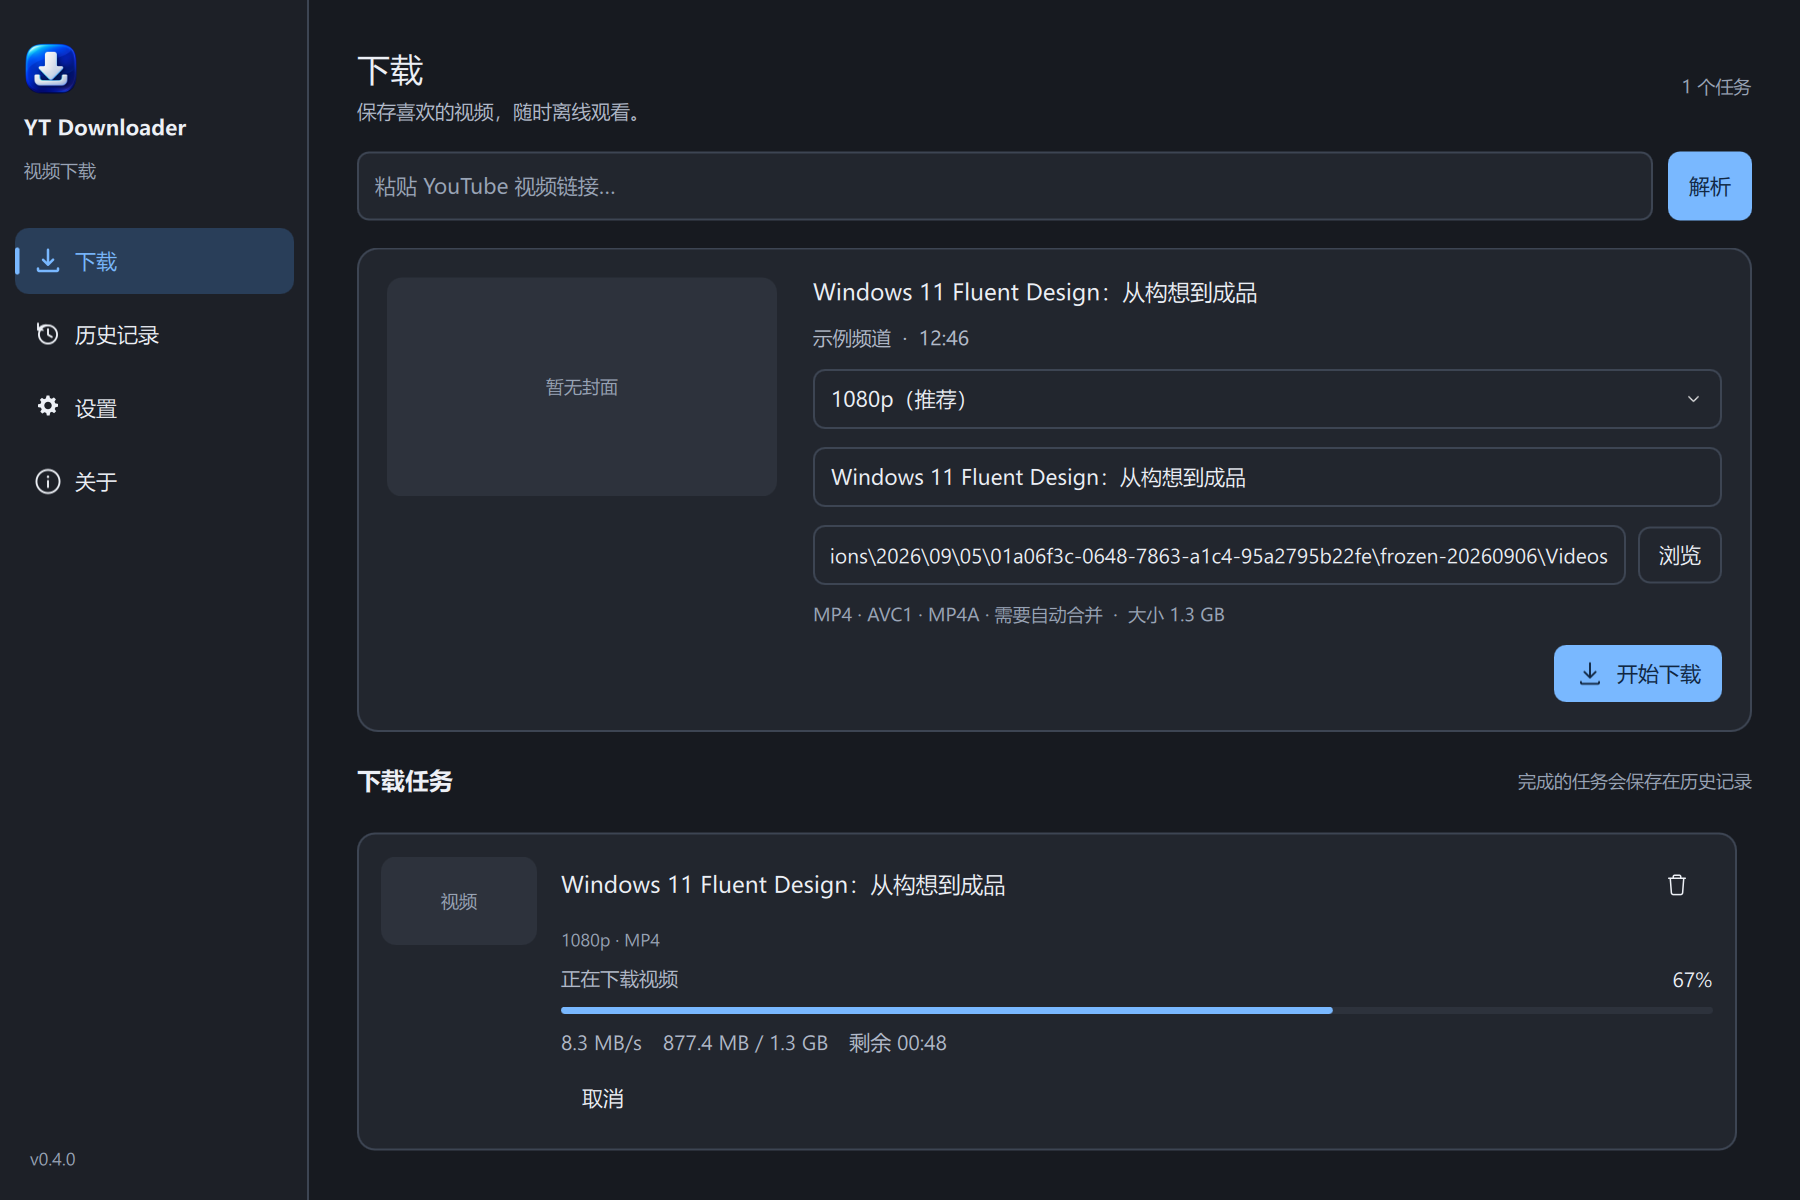
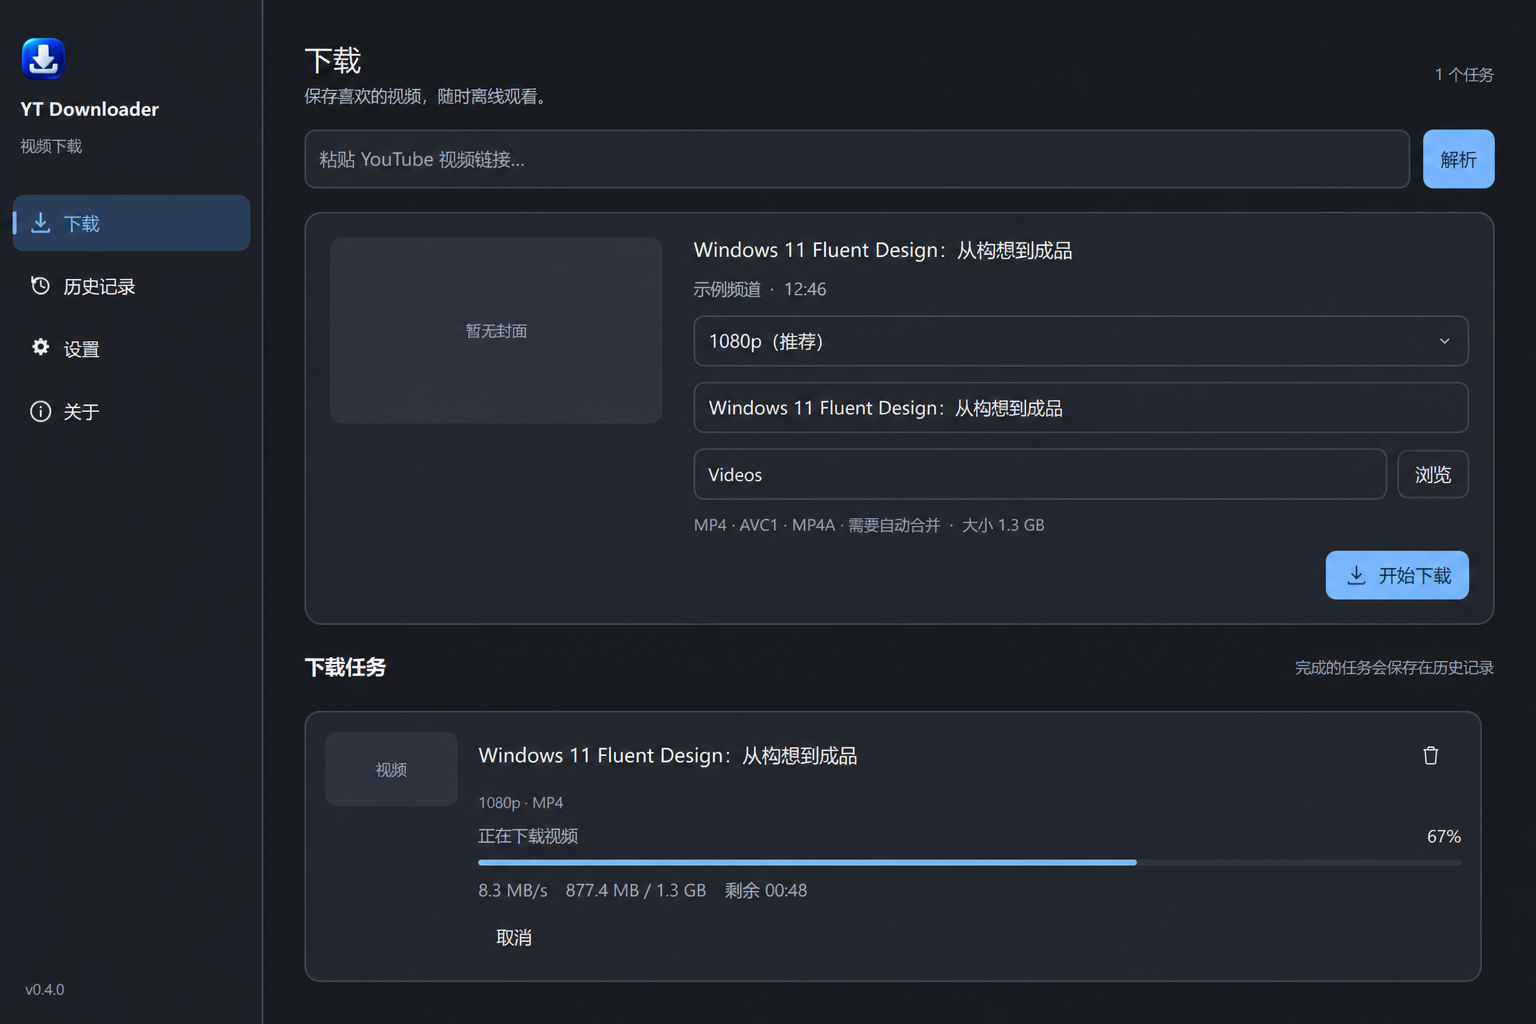
fix: align update source and public release assets

diff --git a/tests/test_update_discovery.py b/tests/test_update_discovery.py
@@ -5,9 +5,9 @@ from yt_downloader.updates.http import SecureUpdateHttpClient
 
 
 def release(version='0.4.1', *, prerelease=False, draft=False):
-    base = f'https://github.com/kekaodeni/YTDownloader-releases/releases/download/v{version}'
+    base = f'https://github.com/kekaodeni/YTDownloader/releases/download/v{version}'
     return {
-        'tag_name': f'v{version}', 'html_url': f'https://github.com/kekaodeni/YTDownloader-releases/releases/tag/v{version}',
+        'tag_name': f'v{version}', 'html_url': f'https://github.com/kekaodeni/YTDownloader/releases/tag/v{version}',
         'prerelease': prerelease, 'draft': draft,
         'assets': [
             {'name': 'update-manifest.json', 'browser_download_url': base + '/update-manifest.json'},
@@ -51,7 +51,7 @@ def test_discovery_http_uses_proxy_without_netrc_cookies_or_credentials():
     snapshot = type('S', (), {'mode': 'system', 'detected_proxies': {'https': 'http://127.0.0.1:23333'}, 'custom_proxy_url': ''})()
     policy = type('P', (), {'snapshot': lambda self: snapshot})()
     client = SecureUpdateHttpClient(policy, session_factory=lambda: session)
-    assert client.get_json('https://api.github.com/repos/kekaodeni/YTDownloader-releases/releases/latest')['tag_name'] == 'v0.4.1'
+    assert client.get_json('https://api.github.com/repos/kekaodeni/YTDownloader/releases/latest')['tag_name'] == 'v0.4.1'
     assert session.trust_env is False
     assert session.auth is None
     assert session.proxies == snapshot.detected_proxies
@@ -73,7 +73,7 @@ def test_update_metadata_bytes_are_bounded_and_use_release_asset_redirect_policy
     snapshot=type('S',(),{'mode':'direct','detected_proxies':{},'custom_proxy_url':''})()
     policy=type('P',(),{'snapshot':lambda self:snapshot})()
     client = SecureUpdateHttpClient(policy, session_factory=Session)
-    url = 'https://github.com/kekaodeni/YTDownloader-releases/releases/download/v0.4.1/update-manifest.json'
+    url = 'https://github.com/kekaodeni/YTDownloader/releases/download/v0.4.1/update-manifest.json'
     assert client.get_bytes(url, max_bytes=6) == b'abcdef'
     with pytest.raises(ValueError, match='large'):
         client.get_bytes(url, max_bytes=5)

diff --git a/src/yt_downloader/updates/service.py b/src/yt_downloader/updates/service.py
@@ -231,11 +231,11 @@ class UpdateService(QObject):
                 raise ValueError('Stored update transaction escaped staging root')
             raw = (transaction / 'update-manifest.json').read_bytes()
             signature = (transaction / 'update-manifest.sig').read_bytes()
-            base = f'https://github.com/kekaodeni/YTDownloader-releases/releases/download/v{version}/'
+            base = f'https://github.com/kekaodeni/YTDownloader/releases/download/v{version}/'
             release = UpdateRelease(
                 version, f'v{version}', base + 'update-manifest.json',
                 base + 'update-manifest.sig',
-                f'https://github.com/kekaodeni/YTDownloader-releases/releases/tag/v{version}',
+                f'https://github.com/kekaodeni/YTDownloader/releases/tag/v{version}',
             )
             manifest = self.keyring.verify(raw, signature, release)
             package = transaction / manifest.package.name

diff --git a/tests/test_update_signature.py b/tests/test_update_signature.py
@@ -20,10 +20,10 @@ def manifest(key_id='current-key'):
         'published_at': '2026-09-04T12:00:00Z', 'minimum_auto_update_version': '0.4.0',
         'updater_protocol': 1, 'key_id': key_id,
         'notes': {'zh-CN': '安全更新', 'en': 'Security update'},
-        'release_url': f'https://github.com/kekaodeni/YTDownloader-releases/releases/tag/v{version}',
+        'release_url': f'https://github.com/kekaodeni/YTDownloader/releases/tag/v{version}',
         'package': {
             'name': f'YTDownloader-{version}-win64.zip',
-            'url': f'https://github.com/kekaodeni/YTDownloader-releases/releases/download/v{version}/YTDownloader-{version}-win64.zip',
+            'url': f'https://github.com/kekaodeni/YTDownloader/releases/download/v{version}/YTDownloader-{version}-win64.zip',
             'compressed_size': 100, 'extracted_size': 300, 'sha256': 'a' * 64,
         },
     }

diff --git a/tests/test_update_signing.py b/tests/test_update_signing.py
@@ -50,9 +50,9 @@ def test_signing_uses_encrypted_external_ed25519_key_and_creates_verifiable_asse
     )
     release=UpdateRelease(
         Version.parse('0.4.0'),'v0.4.0',
-        'https://github.com/kekaodeni/YTDownloader-releases/releases/download/v0.4.0/update-manifest.json',
-        'https://github.com/kekaodeni/YTDownloader-releases/releases/download/v0.4.0/update-manifest.sig',
-        'https://github.com/kekaodeni/YTDownloader-releases/releases/tag/v0.4.0',
+        'https://github.com/kekaodeni/YTDownloader/releases/download/v0.4.0/update-manifest.json',
+        'https://github.com/kekaodeni/YTDownloader/releases/download/v0.4.0/update-manifest.sig',
+        'https://github.com/kekaodeni/YTDownloader/releases/tag/v0.4.0',
     )
     manifest=TrustedKeyring({'prod-2026':public}).verify(raw,detached,release)
     assert manifest.package.name==package.name

diff --git a/tests/test_update_service.py b/tests/test_update_service.py
@@ -22,8 +22,8 @@ def _signed_release(data=b'package'):
     key = Ed25519PrivateKey.generate()
     public = key.public_key().public_bytes(serialization.Encoding.Raw, serialization.PublicFormat.Raw)
     version = Version.parse('0.4.1')
-    release_url = 'https://github.com/kekaodeni/YTDownloader-releases/releases/tag/v0.4.1'
-    package_url = 'https://github.com/kekaodeni/YTDownloader-releases/releases/download/v0.4.1/YTDownloader-0.4.1-win64.zip'
+    release_url = 'https://github.com/kekaodeni/YTDownloader/releases/tag/v0.4.1'
+    package_url = 'https://github.com/kekaodeni/YTDownloader/releases/download/v0.4.1/YTDownloader-0.4.1-win64.zip'
     payload = {
         'schema_version': 1, 'app_id': 'YTDownloader', 'channel': 'stable',
         'platform': 'windows', 'architecture': 'x64', 'version': '0.4.1',

diff --git a/src/yt_downloader/updates/signing.py b/src/yt_downloader/updates/signing.py
@@ -98,8 +98,8 @@ def create_signed_release_assets(
     if public != trusted_keys[key_id]:
         raise ValueError('Signing key does not match the embedded trusted public key')
     published = published_at or datetime.now(timezone.utc).isoformat().replace('+00:00', 'Z')
-    base = f'https://github.com/kekaodeni/YTDownloader-releases/releases/download/v{parsed_version}/'
-    release_url = f'https://github.com/kekaodeni/YTDownloader-releases/releases/tag/v{parsed_version}'
+    base = f'https://github.com/kekaodeni/YTDownloader/releases/download/v{parsed_version}/'
+    release_url = f'https://github.com/kekaodeni/YTDownloader/releases/tag/v{parsed_version}'
     payload = {
         'schema_version': 1,
         'app_id': 'YTDownloader', 'channel': 'stable', 'platform': 'windows', 'architecture': 'x64',

diff --git a/tests/test_update_download.py b/tests/test_update_download.py
@@ -13,7 +13,7 @@ from yt_downloader.updates.http import SecureUpdateHttpClient
 def manifest(data: bytes, *, declared_size=None):
     package = UpdatePackage(
         'YTDownloader-0.4.1-win64.zip',
-        'https://github.com/kekaodeni/YTDownloader-releases/releases/download/v0.4.1/YTDownloader-0.4.1-win64.zip',
+        'https://github.com/kekaodeni/YTDownloader/releases/download/v0.4.1/YTDownloader-0.4.1-win64.zip',
         len(data) if declared_size is None else declared_size, 300, hashlib.sha256(data).hexdigest(),
     )
     return UpdateManifest(Version.parse('0.4.1'), 'now', Version.parse('0.4.0'), 1, 'key', 'zh', 'en', 'release', package)

diff --git a/tests/test_update_fault_matrix.py b/tests/test_update_fault_matrix.py
@@ -116,7 +116,7 @@ def test_update_redirect_rejects_nonstandard_https_port_and_closes_resources():
     session=Session(); snapshot=type('S',(),{'mode':'direct','detected_proxies':{},'custom_proxy_url':''})()
     policy=type('P',(),{'snapshot':lambda self:snapshot})()
     client=SecureUpdateHttpClient(policy,session_factory=lambda:session)
-    url='https://github.com/kekaodeni/YTDownloader-releases/releases/download/v0.4.1/x.zip'
+    url='https://github.com/kekaodeni/YTDownloader/releases/download/v0.4.1/x.zip'
     with pytest.raises(ValueError,match='443'):
         client.open_stream(url,(10,30))
     assert response.closed and session.closed

diff --git a/src/yt_downloader/updates/signature.py b/src/yt_downloader/updates/signature.py
@@ -92,7 +92,7 @@ class TrustedKeyring:
         _exact_fields(package, _PACKAGE_FIELDS, 'Package')
         name = _text(package['name'], 'package name')
         expected_name = f'YTDownloader-{version}-win64.zip'
-        prefix = f'https://github.com/kekaodeni/YTDownloader-releases/releases/download/v{version}/'
+        prefix = f'https://github.com/kekaodeni/YTDownloader/releases/download/v{version}/'
         url = _text(package['url'], 'package URL')
         if name != expected_name or url != prefix + expected_name:
             raise ValueError('Package name, URL, and manifest version do not match')

diff --git a/src/yt_downloader/updates/http.py b/src/yt_downloader/updates/http.py
@@ -36,7 +36,7 @@ class SecureUpdateHttpClient:
         return session
 
     def get_json(self, url: str) -> Mapping:
-        if url != 'https://api.github.com/repos/kekaodeni/YTDownloader-releases/releases/latest':
+        if url != 'https://api.github.com/repos/kekaodeni/YTDownloader/releases/latest':
             raise ValueError('Update discovery URL is not trusted')
         session = self._session()
         response = None

diff --git a/src/yt_downloader_updater/__main__.py b/src/yt_downloader_updater/__main__.py
@@ -17,7 +17,7 @@ from yt_downloader.updates.trusted_keys import PRODUCTION_TRUSTED_KEYS
 
 
 UPDATER_PROTOCOL = 1
-REPOSITORY = 'kekaodeni/YTDownloader-releases'
+REPOSITORY = 'kekaodeni/YTDownloader'
 
 
 def validate_upgrade_versions(current_value: str, target_value: str) -> tuple[Version, Version]:

diff --git a/src/yt_downloader/updates/discovery.py b/src/yt_downloader/updates/discovery.py
@@ -8,7 +8,7 @@ from semver import Version
 from yt_downloader.updates.models import UpdateRelease
 
 
-RELEASE_REPOSITORY = 'kekaodeni/YTDownloader-releases'
+RELEASE_REPOSITORY = 'kekaodeni/YTDownloader'
 LATEST_RELEASE_API = f'https://api.github.com/repos/{RELEASE_REPOSITORY}/releases/latest'
 
 
